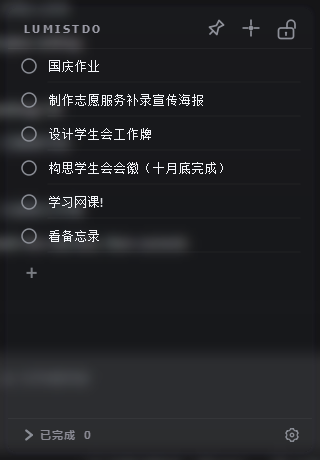
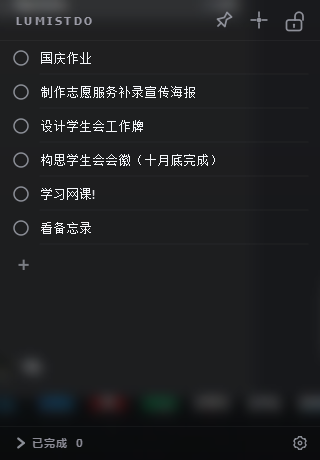
毛玻璃的模糊区永远是整扇窗口:开毛玻璃时容器铺满窗口、圆角压成 0
DWM 的 accent 模糊只认窗口矩形、永远方角——SetWindowRgn 裁不住、DwmEnableBlurBehindWindow 传模糊区域返回 S_OK 却没反应、DWMWA_WINDOW_CORNER_PREFERENCE 在 Win10 上是 E_INVALIDARG。所以反过来让容器去对齐它:开毛玻璃时外边距和圆角都压成 0,关掉再回 8px 边距+8px 圆角+边缘羽化。顺带把 AGENTS.md 里'这台 Win11'改成 Windows 10 Pro 22H2(19045)。

diff --git a/lumistdo/main_window.py b/lumistdo/main_window.py
@@ -69,8 +69,16 @@ from .blur_behind import apply_to_widget
 from . import autostart
 from . import global_hotkeys
 
-def build_qss(t: Theme) -> str:
-    """根据主题动态生成 QSS。"""
+PANEL_MARGIN = 8    # 容器离窗口边缘的留白(边缘羽化就画在这圈环带里)
+PANEL_RADIUS = 8    # 容器圆角(开毛玻璃时会被压成 0,理由见 build_qss)
+
+
+def build_qss(t: Theme, radius: int = PANEL_RADIUS) -> str:
+    """根据主题动态生成 QSS。
+
+    radius 是容器圆角:开毛玻璃时传 0(模糊区永远是方的且裁不住,圆角只会让
+    四个角露出没被盖住的模糊 —— 透明度调高时就是四个明显的亮角)。
+    """
     bg = t.bg_color
     # 背景用垂直渐变(三档停靠点,见 app_settings.container_qss 的说明):
     # 两档渐变要跨满整个窗口高度,8bit 量化下会出现一条条水平色带。
@@ -91,7 +99,7 @@ QFrame#container {{
         stop:0.45 rgba({bg.red()}, {bg.green()}, {bg.blue()}, {op}),
         stop:1 rgba({t.bg_bottom_color.red()}, {t.bg_bottom_color.green()}, {t.bg_bottom_color.blue()}, {t.bg_bottom_color.alpha()}));
     border: none;
-    border-radius: 8px;
+    border-radius: {radius}px;
 }}
 QFrame#sectionSep {{
     background: rgba({sep.red()}, {sep.green()}, {sep.blue()}, {sep.alpha()});
@@ -582,6 +590,7 @@ class MainWindow(QWidget):
         self._task_drag_order_changed = False
         self._fade_pixmap = None   # 边缘羽化缓存,避免每次重绘都画 14 层矢量图形
         self._fade_key = None
+        self._panel_margin = PANEL_MARGIN  # 当前容器外边距(开毛玻璃时会被压成 0)
         self._task_drag_scroll_timer = QTimer(self)
         self._task_drag_scroll_timer.setInterval(40)
         self._task_drag_scroll_timer.timeout.connect(self._auto_scroll_task_drag)
@@ -597,11 +606,11 @@ class MainWindow(QWidget):
         self.resize(320, 460)
 
         outer = QVBoxLayout(self)
-        outer.setContentsMargins(8, 8, 8, 8)
+        outer.setContentsMargins(PANEL_MARGIN, PANEL_MARGIN, PANEL_MARGIN, PANEL_MARGIN)
 
         self.container = QFrame()
         self.container.setObjectName("container")
-        self.container.setStyleSheet(build_qss(self.theme))
+        self.container.setStyleSheet(build_qss(self.theme, self._panel_radius()))
         # 容器内固定箭头光标,避免被窗口边缘的 resize 光标继承
         self.container.setCursor(QCursor(Qt.ArrowCursor))
         outer.addWidget(self.container)
@@ -807,6 +816,8 @@ class MainWindow(QWidget):
         super().paintEvent(event)
         if self.width() <= 0 or self.height() <= 0:
             return
+        if self._panel_margin <= 0:
+            return  # 容器铺满窗口(开毛玻璃),羽化环带没有落脚处,整圈都在窗口外
         p = QPainter(self)
         p.drawPixmap(0, 0, self._edge_fade_pixmap())
         p.end()
@@ -1337,7 +1348,7 @@ class MainWindow(QWidget):
         self.theme = self.settings.to_theme()
         t = self.theme
         # 容器 QSS
-        self.container.setStyleSheet(build_qss(t))
+        self.container.setStyleSheet(build_qss(t, self._panel_radius()))
         # 全局字体
         self.setFont(QFont(t.font_family, 10))
         # 锁头
@@ -1809,16 +1820,40 @@ class MainWindow(QWidget):
         self._settings_save_timer.start()
 
     # ---- 真·毛玻璃 ----
+    def _panel_radius(self):
+        """容器圆角:开毛玻璃时跟着边距一起变 0,免得角上露出没盖住的模糊。"""
+        return PANEL_RADIUS if self._panel_margin > 0 else 0
+
+    def _set_panel_margin(self, margin):
+        """改容器离窗口边缘的留白(圆角、羽化缓存跟着一起调整)。"""
+        if self._panel_margin == margin:
+            return
+        old_radius = self._panel_radius()
+        self._panel_margin = margin
+        self.layout().setContentsMargins(margin, margin, margin, margin)
+        if self._panel_radius() != old_radius:
+            self.container.setStyleSheet(build_qss(self.theme, self._panel_radius()))
+        self._fade_pixmap = None
+        self._fade_key = None
+        self.update()
+
     def _apply_blur_behind(self):
         """按设置开关窗口背后的模糊(真·毛玻璃)。
 
         只是把设置转给 blur_behind 模块,失败静默——这个 API 未公开,
         不支持时只是没有毛玻璃,不该影响其它功能。窗口标志重建(最小化还原、
         改任务栏样式)会丢掉这个效果,所以 showEvent/changeEvent 里都要补一次。
+
+        糊的是**整个窗口矩形**、而且只能是方的(实测:SetWindowRgn 裁不住它,
+        DwmEnableBlurBehindWindow 传模糊区域返回 S_OK 却没反应,这台 Win10
+        没有 DWMWA_WINDOW_CORNER_PREFERENCE)。所以开毛玻璃时把容器铺满窗口,
+        让可见背景和模糊区严丝合缝——否则容器内缩多少,模糊就比背景大多少。
         """
+        enabled = bool(self.settings.blur_behind)
+        self._set_panel_margin(0 if enabled else PANEL_MARGIN)
         if not self.isVisible():
             return False
-        return apply_to_widget(self, bool(self.settings.blur_behind))
+        return apply_to_widget(self, enabled)
 
     # ---- 任务栏图标与系统托盘 ----
     def _apply_taskbar_style(self):

diff --git a/tests/test_gui_smoke.py b/tests/test_gui_smoke.py
@@ -687,6 +687,55 @@ def test_blur_behind_toggle_drives_the_window_effect(app, monkeypatch):
         w2.close()
 
 
+def test_frost_flushes_panel_to_window_edges(app, monkeypatch):
+    """开毛玻璃时容器必须铺满窗口。
+
+    模糊的是整个窗口矩形(Win10 上裁不住、也圆不了,详见 AGENTS.md),
+    容器内缩多少,糊出来的那块就比可见背景大多少 —— 所以开模糊就把边距压成 0,
+    关掉再收回来(边缘羽化要那圈环带)。
+    """
+    from lumistdo import blur_behind
+
+    monkeypatch.setattr(
+        blur_behind, "set_blur_behind",
+        lambda hwnd, enabled, tint=(0, 0, 0, 0): True,
+    )
+
+    with tempfile.TemporaryDirectory() as d:
+        root = Path(d)
+        w = MainWindow(TaskStore(root / "tasks.json"), settings_path=root / "settings.json")
+
+        def edge_margins():
+            m = w.layout().contentsMargins()
+            return (m.left(), m.top(), m.right(), m.bottom())
+
+        w.show()
+        app.processEvents()
+        w.layout().activate()
+
+        assert edge_margins() == (8, 8, 8, 8), "没开毛玻璃时边距该是 8"
+        assert w.container.geometry() == w.rect().adjusted(8, 8, -8, -8)
+        assert "border-radius: 8px" in w.container.styleSheet()
+
+        w.settings.blur_behind = True
+        w._apply_blur_behind()
+        app.processEvents()
+        w.layout().activate()
+        assert edge_margins() == (0, 0, 0, 0), "开毛玻璃后容器没铺满窗口"
+        assert w.container.geometry() == w.rect(), "容器没和窗口对齐,模糊会比背景大一圈"
+        # 模糊区永远是方的,圆角只会让四角露出没被盖住的模糊(调高透明度就是四个亮角)
+        assert "border-radius: 0px" in w.container.styleSheet()
+
+        w.settings.blur_behind = False
+        w._apply_blur_behind()
+        app.processEvents()
+        w.layout().activate()
+        assert edge_margins() == (8, 8, 8, 8), "关掉毛玻璃后边距没收回"
+        assert w.container.geometry() == w.rect().adjusted(8, 8, -8, -8)
+        assert "border-radius: 8px" in w.container.styleSheet()
+        w.close()
+
+
 def test_custom_color_window_edits_colors_and_flags_custom(app):
     """自定义配色窗口:改色即时写进设置、主窗口与设置窗口色块同步、高亮转自定义。"""
     with tempfile.TemporaryDirectory() as d:

diff --git a/AGENTS.md b/AGENTS.md
@@ -98,8 +98,9 @@ python -m PyInstaller lumistdo.spec --noconfirm
 - **任务对象同一引用**：`TaskItem.task` 与 `store.tasks` 中的对象是同一个，UI 改文本时本地与 store 同步。
 - **完成动作的边界**：空任务被点完成时直接删除，不进已完成栏（避免空任务堆积）。
 - **圆点不抢焦点**：`TaskItem.dot` 设 `Qt.NoFocus`，点完成时不会触发文本框的 `editingFinished`，避免完成与保存逻辑冲突。
-- **半透明 + 圆角**：窗口 `WA_TranslucentBackground` + 容器 `rgba` 背景，文字保持不透明清晰；圆角外区域透明。
-- **毛玻璃只有一种做法真的有效**：要"糊掉背后"必须调未公开的 `SetWindowCompositionAttribute` + `ACCENT_ENABLE_BLURBEHIND`(3)（`blur_behind.py`）。实测这台 Win11 上 `ACCENT_ENABLE_ACRYLICBLURBEHIND`(4) 与 `ACCENT_ENABLE_HOSTBACKDROP`(5) 都**返回成功但毫无效果**，已废弃的 `DwmEnableBlurBehindWindow` 同样不生效——判断有没有效只能看画面，不能看返回值。`GradientColor` 是 ABGR（低字节 alpha），不是 ARGB。窗口标志重建（最小化还原、改任务栏样式）会丢掉效果，所以 `showEvent` / `changeEvent` 里都要补一次 `_apply_blur_behind()`。模糊是 DWM 合成的，`PrintWindow` / `grab()` 都抓不到，验收必须整屏抓图。
+- **半透明 + 圆角**：窗口 `WA_TranslucentBackground` + 容器 `rgba` 背景，文字保持不透明清晰；圆角外区域透明（只有开毛玻璃时例外，见下面那条）。
+- **毛玻璃只有一种做法真的有效**：要"糊掉背后"必须调未公开的 `SetWindowCompositionAttribute` + `ACCENT_ENABLE_BLURBEHIND`(3)（`blur_behind.py`）。实测这台机器是 **Windows 10 Pro 22H2（19045）**，`ACCENT_ENABLE_ACRYLICBLURBEHIND`(4) 与 `ACCENT_ENABLE_HOSTBACKDROP`(5) 都**返回成功但毫无效果**，已废弃的 `DwmEnableBlurBehindWindow` 同样不生效——判断有没有效只能看画面，不能看返回值。`GradientColor` 是 ABGR（低字节 alpha），不是 ARGB。窗口标志重建（最小化还原、改任务栏样式）会丢掉效果，所以 `showEvent` / `changeEvent` 里都要补一次 `_apply_blur_behind()`。模糊是 DWM 合成的，`PrintWindow` / `grab()` 都抓不到，验收必须整屏抓图。
+- **模糊区永远是"窗口矩形"、永远方角——只能反过来让容器去对齐它**：实测（Win10 Pro 22H2 19045）四种"把模糊裁/圆起来"的办法全部无效：`SetWindowRgn(CreateRoundRectRgn(...))` 确实把窗口区域设上了（返回 1、`GetWindowRgn=3` COMPLEXREGION），但**模糊纹丝不动**；设完区域再重设 `AccentState=3` 无效；`DwmEnableBlurBehindWindow` + `DWM_BB_BLURREGION` 返回 `S_OK` 却什么都不做；`DWMWA_WINDOW_CORNER_PREFERENCE`(33) 在这台机器上直接 `E_INVALIDARG`（`0x80070067`，Win11 才有）。所以 `MainWindow._apply_blur_behind()` 在开毛玻璃时把容器外边距压成 0（`_set_panel_margin`）、圆角也压成 0（`_panel_radius()` → `build_qss(theme, radius)`）：容器内缩多少，糊出来的那块就比可见背景大多少——用户看到的就是"毛玻璃比背景大一圈、还没有圆角"。关掉毛玻璃要复原 8px 边距 + 8px 圆角 + 边缘羽化（羽化整圈都画在窗口外，`paintEvent` 里 `_panel_margin <= 0` 时直接跳过）。**改窗口大小时记住"窗口矩形 == 可见背景"这个前提**。实验脚本 `lumistdo-dev/probe_blur_align.py`，验收脚本 `lumistdo-dev/probe_glass_fit.py`（源码内建真主窗口，能直接读 layout 边距）与 `lumistdo-dev/probe_glass_fit_installed.py`（跑装好的 exe，只能量像素；背后摆棋盘/纯色底，**配对取像素时必须同在内或同在外**——跨边界取点量出的是中间值，会把人骗了；透明度过 240 时四个角不许漏出桌面）。
 - **快捷键默认走系统级热键,不是 QShortcut**：`QShortcut` 是窗口级绑定,主窗口没被选中就完全不响应,而「层级/固定/缩略」这三个动作天生是"在别的窗口里顺手拨一下"的操作,所以走 `RegisterHotKey`(`lumistdo/global_hotkeys.py`)。五条必须记住的：
   1. **`UnregisterHotKey` 必须传注册时那个 hwnd**。它是按"(窗口, id)"登记的,传 `None` 只对"注册时也没传窗口"的热键有效;传错会**静默失败并留下孤儿热键**——系统照样投 `WM_HOTKEY`(id 是我们发的),但 `_ids` 已清空,于是"按键有反应"变成"什么都没发生"。真踩过:窗口被 Qt 重建后重新 `apply()`,先注销失败、再注册失败(1409),最后只剩一个没人认领的热键。
   2. **一次按键系统会投两条 `WM_HOTKEY`**,所以 `handle_hotkey` 里有一层 `_REPEAT_GUARD_SECONDS = 0.3` 去抖。不去抖的话层级这种循环动作连切两下正好回到原位,用户看到的就是"按了没反应"。（实测脚本:`lumistdo-dev/probe_hotkey_downup.py`,只注入"按下"就收到 2 条、"抬起"0 条。）
@@ -133,7 +134,7 @@ python -m PyInstaller lumistdo.spec --noconfirm
 
 ## 环境备注
 
-- 操作系统：Windows 11。命令在 PowerShell（`pwsh`）里跑：路径带空格要引号，环境变量用 `$env:VAR`。
+- 操作系统：**Windows 10 Pro 22H2（build 19045）**——别按 Win11 的 API 写代码（没有 `DWMWA_WINDOW_CORNER_PREFERENCE`、没有系统级 Mica/亚克力背景）。命令在 PowerShell（`pwsh`）里跑：路径带空格要引号，环境变量用 `$env:VAR`。
 - GUI 测试在无头环境用 `$env:QT_QPA_PLATFORM="offscreen"`，不弹真实窗口；中文输出建议同时设 `$env:PYTHONIOENCODING="utf-8"` 与 `$env:PYTHONUTF8="1"`。
 - 测试必须给 `MainWindow` 传 `settings_path`（临时目录），否则会去读开发机真实的 `%APPDATA%\LumistDo\settings.json`，结果随本机状态漂移。
 - **不要为了"试探"而运行 Inno Setup 卸载器**：它不弹确认就直接卸载并删除用户数据（本项目历史上真的丢过一次用户任务）。

diff --git a/README.md b/README.md
@@ -119,6 +119,7 @@
 - **预设**：深空 / 暖夜 / 毛玻璃 / 海洋 / 薰衣草 / 素白，点一下整套换掉，当前选中的那套会亮一圈蓝边
   - 「毛玻璃」会把背后的桌面内容**真正模糊掉**（调用 DWM 的 blur-behind，不是单纯调透明度），所以它的背景只有 9% 不透明度——那点底色用来托住文字对比度，糊成一片的是背后的东西
   - 其余预设都是实底。毛玻璃可以在「背景透明度」下面单独勾选，任何配色都能开；不支持的系统上自动失效，不会报错
+  - 开着毛玻璃时窗口是**方角的**：系统给的模糊区永远是一整块矩形，裁不出圆角，所以干脆让背景铺满整扇窗口去对齐它（关掉毛玻璃就恢复圆角与边缘那一圈羽化）
   - 浅色预设（素白）的字色是深色，不会出现白底白字；标题与底部「已完成」那些固定的灰也会跟着压暗
 - **自定义配色**（预设行最右边那个虚线圆点）：单独调背景颜色与字体颜色，改完即时生效、设置窗口的色块同步跟着变；窗口里的「恢复默认配色」把颜色与预设高亮一起还原成默认的「深空」
 - **背景颜色 / 字体颜色**：点色块打开取色器（在预设基础上手改后，高亮会自动切到「自定义配色」）
@@ -202,8 +203,9 @@ LumistDo-src/
 - **数据与 UI 分离**：`TaskStore` 只管数据和持久化，不依赖 Qt；`MainWindow` 持有它并在交互时调用。所以数据层能单独跑单测。
 - **任务对象同一引用**：`TaskItem.task` 和 `store.tasks` 里是同一个对象，编辑后本地与 store 同步。
 - **圆点不抢焦点**：`TaskItem.dot` 设 `Qt.NoFocus`，点完成时不会触发输入框的 `editingFinished`，避免完成与保存逻辑打架。
-- **半透明 + 圆角**：窗口 `WA_TranslucentBackground` + 容器 `rgba` 背景，文字不透明，圆角外透明。
-- **真·毛玻璃只能靠 DWM**：普通半透明窗口是"清清楚楚地看见背后"，要让背后变糊必须调未公开的 `SetWindowCompositionAttribute` + `ACCENT_ENABLE_BLURBEHIND`。实测这台 Win11 上 `ACCENT_ENABLE_ACRYLICBLURBEHIND`(4) 与 `ACCENT_ENABLE_HOSTBACKDROP`(5) 都返回成功但**什么都不做**，已废弃的 `DwmEnableBlurBehindWindow` 同样不生效——所以别被返回值骗了，只有 3 真的糊。整块用 `getattr` 取函数、失败静默降级，不支持的系统上只是没有毛玻璃。
+- **半透明 + 圆角**：窗口 `WA_TranslucentBackground` + 容器 `rgba` 背景，文字不透明，圆角外透明（只有开毛玻璃时例外，见下一条）。
+- **真·毛玻璃只能靠 DWM**：普通半透明窗口是"清清楚楚地看见背后"，要让背后变糊必须调未公开的 `SetWindowCompositionAttribute` + `ACCENT_ENABLE_BLURBEHIND`。实测这台机器是 Windows 10 Pro 22H2（19045），`ACCENT_ENABLE_ACRYLICBLURBEHIND`(4) 与 `ACCENT_ENABLE_HOSTBACKDROP`(5) 都返回成功但**什么都不做**，已废弃的 `DwmEnableBlurBehindWindow` 同样不生效——所以别被返回值骗了，只有 3 真的糊。整块用 `getattr` 取函数、失败静默降级，不支持的系统上只是没有毛玻璃。
+- **模糊永远是"整个窗口矩形"、永远方角，所以只能反过来让背景去对齐它**：`SetWindowRgn` 设了圆角窗口区域也裁不掉模糊，`DWMWA_WINDOW_CORNER_PREFERENCE` 在 Win10 上直接返回 `E_INVALIDARG`。于是开毛玻璃时把容器的 8px 留白和 8px 圆角都压成 0，让可见的背景严丝合缝地盖住模糊区——不然糊出来的那块会比背景大一圈，四个角上还露出没被盖住的亮角（背景透明度拉高时特别明显）。关掉毛玻璃就恢复留白、圆角和边缘羽化。
 - **背景用三档垂直渐变而不是两档**：两档渐变要把色差摊满整个窗口高度，8bit 量化下会出现一条条水平色带；三档（上/中/下）把色差压在很小的范围里，毛玻璃预设那种轻微立体感才干净。三个窗口的背景都由 `app_settings.container_qss()` 生成，不会各自漂移。
 - **渐隐**：只有缩略模式会让顶栏渐隐，显隐由"鼠标是否贴在顶栏矩形内"驱动；此外点击窗口能把顶栏临时唤回 3 秒（`_reveal_until`）。
 - **透明度特效必须丢引用**：Qt 的 `widget.setGraphicsEffect(None)` 会**直接 delete 掉**那个 `QGraphicsOpacityEffect`，缓存的引用立刻变成野指针（再碰就是 `Internal C++ object already deleted`）。所以每次摘掉特效后都要把缓存清空（`_forget_effect`）。
